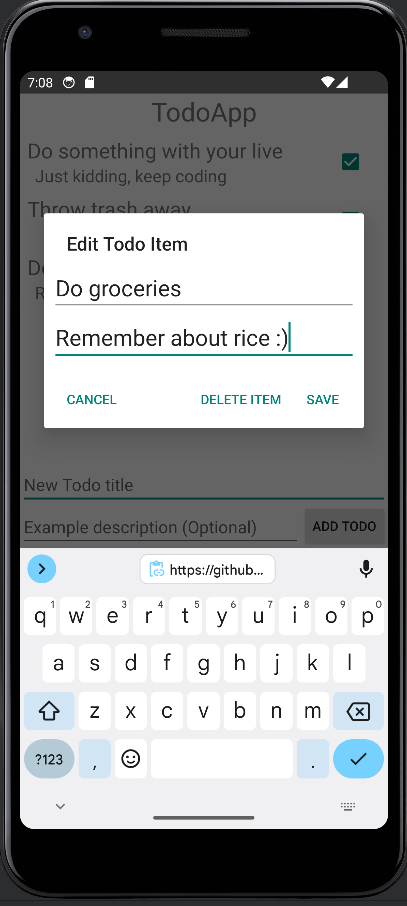
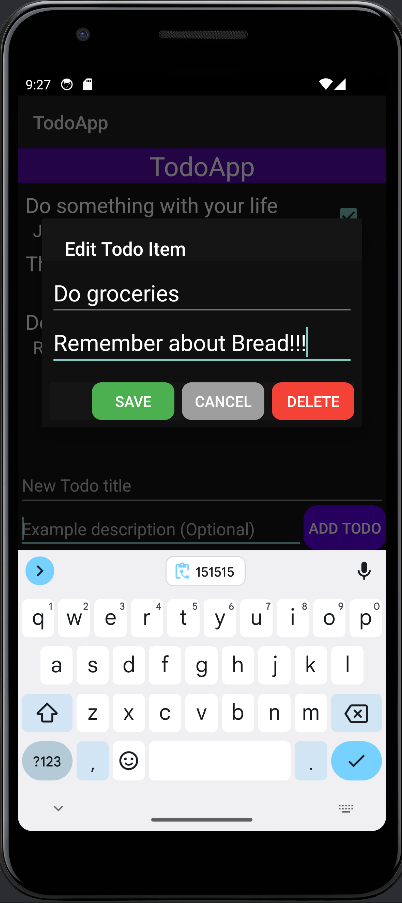
Change edit dialog with changing buttons styles and design. Add buttons backgrounds. Add more colors, styles. Modify AppTheme.

diff --git a/app/src/main/java/com/example/todoapp/TodoAdapter.kt b/app/src/main/java/com/example/todoapp/TodoAdapter.kt
@@ -5,6 +5,7 @@ import android.view.LayoutInflater
 import android.view.View
 import android.view.View.OnLongClickListener
 import android.view.ViewGroup
+import android.widget.Button
 import android.widget.CheckBox
 import android.widget.EditText
 import android.widget.TextView
@@ -24,31 +25,38 @@ class TodoAdapter(private val todoItems: MutableList<TodoItem>) : RecyclerView.A
             val position = bindingAdapterPosition
             val todoItem = todoItems[position]
 
-            val builder = AlertDialog.Builder(itemView.context)
             val dialogView = LayoutInflater.from(itemView.context).inflate(R.layout.edit_todoitem_dialog, null)
 
             dialogView.findViewById<EditText>(R.id.eteditTodoTitleText).text.append(todoItem.title)
             dialogView.findViewById<EditText>(R.id.eteditTodoDescriptionText).text.append(todoItem.description)
 
-            builder.setView(dialogView)
+            val dialog = AlertDialog.Builder(itemView.context)
+                .setView(dialogView)
                 .setTitle("Edit Todo Item")
-                .setPositiveButton("Save") { dialog, _ ->
-                    val title = dialogView.findViewById<EditText>(R.id.eteditTodoTitleText).text.toString()
-                    val description = dialogView.findViewById<EditText>(R.id.eteditTodoDescriptionText).text.toString()
+                .create()
 
-                    val editedTask = todoItem.copy(title = title, description = description)
-                    editTodoItem(position, editedTask)
+            val btnSave = dialogView.findViewById<Button>(R.id.btnSave)
+            btnSave.setOnClickListener {
+                val title = dialogView.findViewById<EditText>(R.id.eteditTodoTitleText).text.toString()
+                val description = dialogView.findViewById<EditText>(R.id.eteditTodoDescriptionText).text.toString()
 
-                    dialog.dismiss()
-                }
-                .setNeutralButton("Cancel") { dialog, _ ->
-                    dialog.dismiss()
-                }
-                .setNegativeButton("Delete item") {dialog, _ ->
-                    removeTodoItem(position)
-                    dialog.dismiss()
-                }
-            builder.create().show()
+                val editedTask = todoItem.copy(title = title, description = description)
+                editTodoItem(position, editedTask)
+                dialog.dismiss()
+            }
+
+            val btnCancel = dialogView.findViewById<Button>(R.id.btnCancel)
+            btnCancel.setOnClickListener {
+                dialog.dismiss()
+            }
+
+            val btnDelete = dialogView.findViewById<Button>(R.id.btnDelete)
+            btnDelete.setOnClickListener {
+                removeTodoItem(position)
+                dialog.dismiss()
+            }
+
+            dialog.show()
 
             return true
         }
